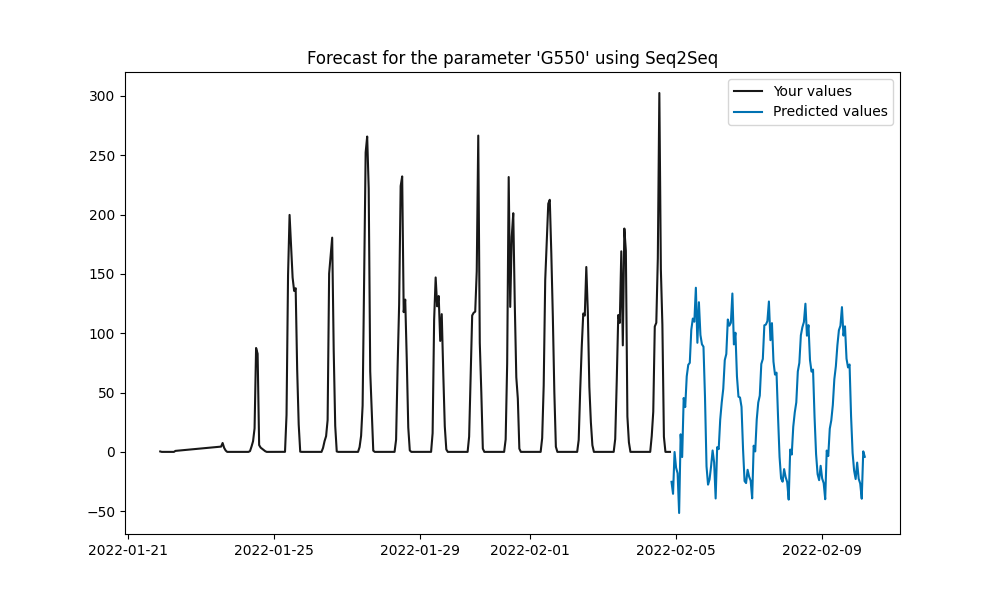
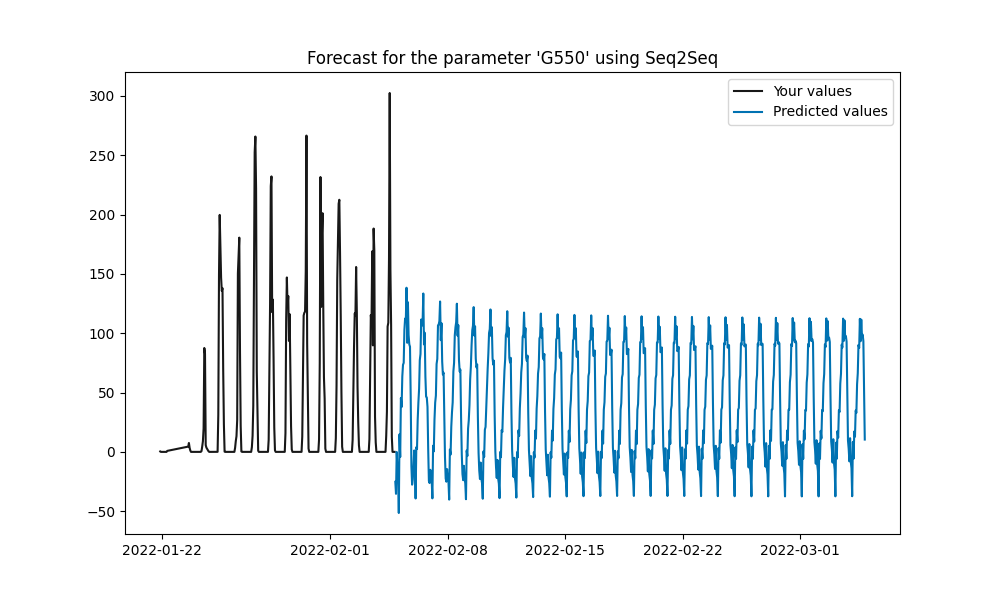
plots4

Changed region(s): [[0.186, 0.21, 0.868, 0.84], [0.093, 0.9, 0.713, 0.93], [0.744, 0.9, 0.868, 0.93]]

diff --git a/server/generate_plots.py b/server/generate_plots.py
@@ -7,14 +7,13 @@ from seq2seq_train import Seq2SeqNeuralNetwork
 import os
 
 class PlotsGenerator:
-    def __init__(self, dataframe_loader) -> None:
-        self.dataframe_loader = dataframe_loader
-        self.df = dataframe_loader.load()[:336]
+    def __init__(self, user_df) -> None:
+        self.df = user_df
 
     def lstm_plots(self):
         figs: list[plt.Figure] = []
         predictor = LstmPredictorNormalized()
-        predicted = predictor.predict(self.df, 128)
+        predicted = predictor.predict(self.df, 672)
 
         save_dir = 'images/lstm/'
         os.makedirs(save_dir, exist_ok=True)
@@ -25,16 +24,16 @@ class PlotsGenerator:
             plt.plot(predicted['Timestamp'], predicted[column].astype('float32'), '#0072B2', label='Predicted values')
             plt.title(f'Forecast for the parameter \'{column}\' using LSTM')
             plt.legend()
-            figs.append(plt.gcf)
+            figs.append(plt.gcf())
             # plt.savefig(f'images/lstm/lstm_{column}.png')
             plt.close()
         
-        return figs
+        return figs, predicted
 
     def seq2seq_plots(self):
         figs: list[plt.Figure] = []
         predictor = Seq2SeqPredictorNormalized()
-        predicted = predictor.predict(self.df, 128)
+        predicted = predictor.predict(self.df, 672)
 
         save_dir = 'images/seq2seq/'
         os.makedirs(save_dir, exist_ok=True)
@@ -46,13 +45,16 @@ class PlotsGenerator:
             plt.title(f'Forecast for the parameter \'{column}\' using Seq2Seq')
             plt.legend()
             # plt.savefig(f'images/seq2seq/seq2seq_{column}.png')
-            figs.append(plt.gcf)
+            figs.append(plt.gcf())
             plt.close()
         
-        return figs
+        return figs, predicted
 
 
 if __name__ == '__main__':
-    PlotsGenerator(FrameLoader(FrameLoader.RAW)).seq2seq_plots()
-    PlotsGenerator(FrameLoader(FrameLoader.RAW)).lstm_plots()
+    dataframe_loader = FrameLoader(FrameLoader.RAW)
+    df = dataframe_loader.load()[:336]
+
+    PlotsGenerator(df).seq2seq_plots()
+    PlotsGenerator(df).lstm_plots()
 
